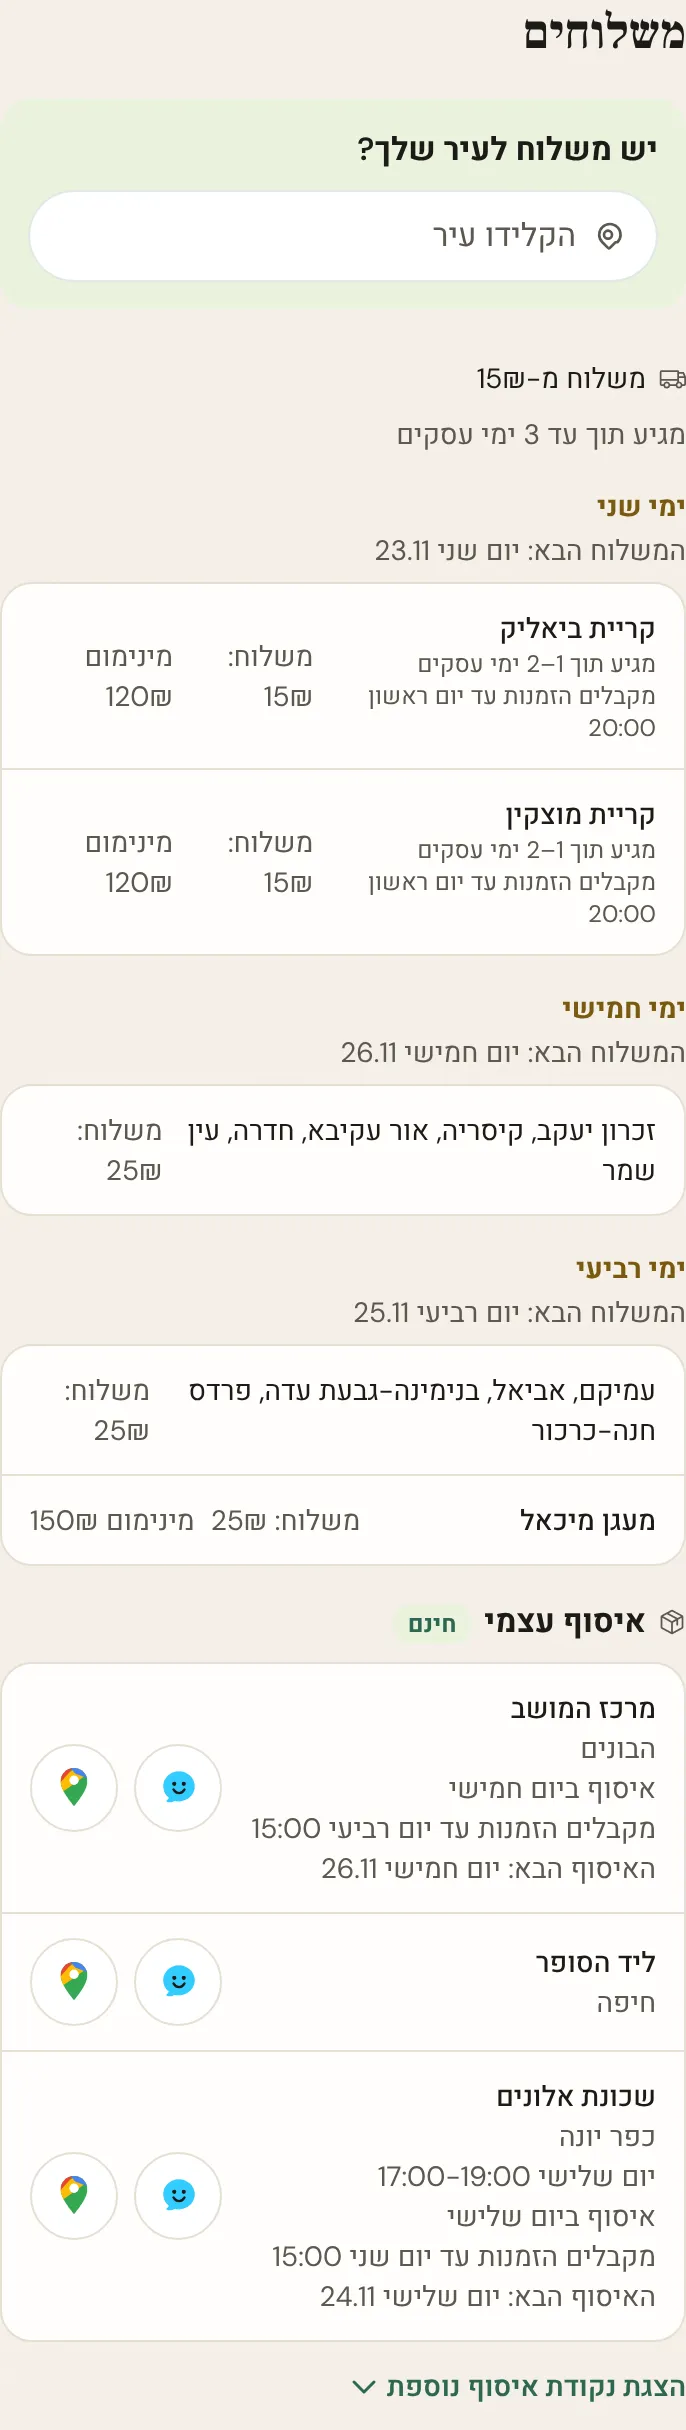
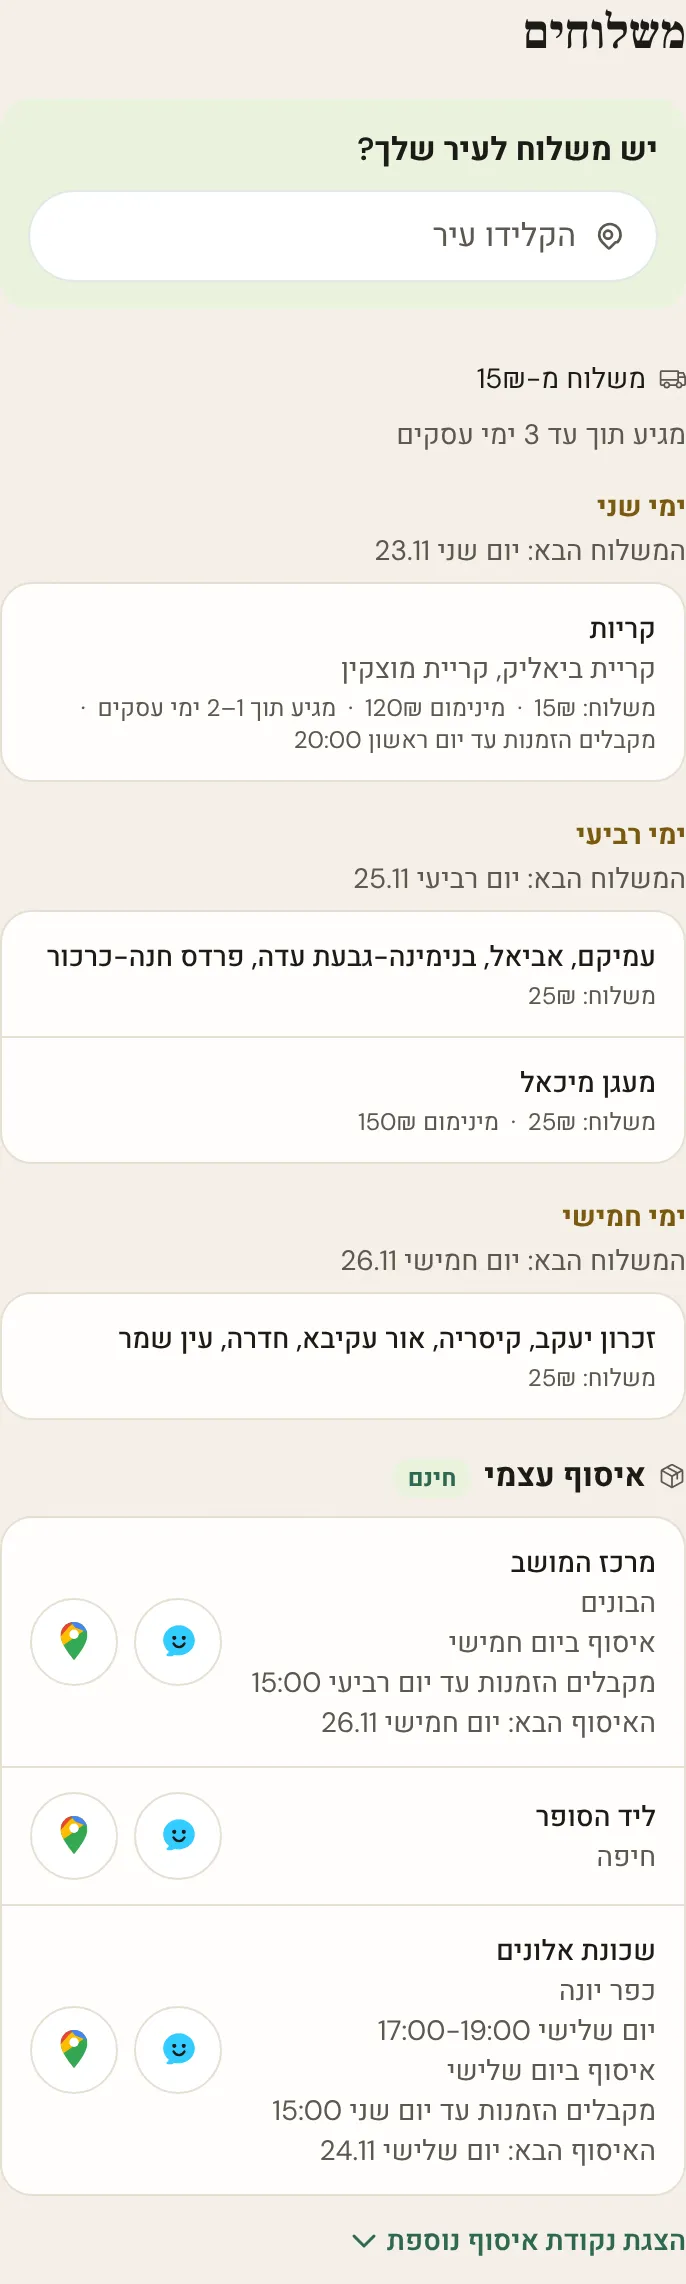
feat(delivery): day groups in week order; the «·» ends a wrapped line (MEH-3511)
Day groups read Sunday first instead of in the order the owner added them,
and a wrapped terms line ends with the dot instead of starting with it.

Builder-Model: claude-opus-5-5

Claude-Session: https://claude.ai/code/session_01X8DSqVbjSvx4HFCAyfuLpq

diff --git a/frontend/lib/deliveryGroups.js b/frontend/lib/deliveryGroups.js
@@ -26,7 +26,7 @@
  *
  * Row shape is preserved from the input
  * ({ id, city, min_order, delivery_day, delivery_fee }), original order kept;
- * day groups are ordered by first appearance.
+ * day groups are ordered by weekday (Sunday first; MEH-3511), ties by first appearance.
  *
  * ⚠ The map below is an EXPLICIT WHITELIST, not a spread — every field a row
  * needs downstream must be named here or it is silently dropped on the way to
@@ -73,14 +73,26 @@ export function groupDeliveryAreas(areas = []) {
     return { mode: "hoist", day: distinctDays[0], rows };
   }
 
-  const groups = distinctDays.map((day) => ({
-    day,
-    rows: rows.filter((r) => r.delivery_days.length && labelOf(r) === day),
-  }));
+  const groups = distinctDays
+    .map((day) => ({
+      day,
+      rows: rows.filter((r) => r.delivery_days.length && labelOf(r) === day),
+    }))
+    // MEH-3511 (Sapir 20/11): day groups read in week order, Sunday first;
+    // first appearance breaks a tie («שני» before «שני וחמישי»).
+    .sort((a, b) => firstWeekday(a.rows[0]) - firstWeekday(b.rows[0]));
   return { mode: "group", groups, arranged: missing };
 }
 
 const DAY_LIST = new Intl.ListFormat("he", { style: "long", type: "conjunction" });
+
+const WEEK = ["ראשון", "שני", "שלישי", "רביעי", "חמישי", "שישי", "שבת"];
+
+/** The earliest weekday of a row, Sunday = 0; an unknown day sorts last. @param {{delivery_days: string[]}} r */
+function firstWeekday(r) {
+  const idx = r.delivery_days.map((d) => WEEK.indexOf(d)).filter((i) => i >= 0);
+  return idx.length ? Math.min(...idx) : WEEK.length;
+}
 
 /** @param {string[]} days — one day reads as itself («שני»), two as «שני וחמישי». */
 function dayLabel(days) {

diff --git a/frontend/__tests__/deliveryGroups.test.js b/frontend/__tests__/deliveryGroups.test.js
@@ -101,16 +101,17 @@ describe("groupDeliveryAreas", () => {
     expect(res.rows.map((r) => r.delivery_fee)).toEqual([20, 0, null]);
   });
 
-  it("2+ distinct days → group, one group per day in first-appearance order", () => {
+  // MEH-3511 (Sapir 20/11): week order, not first appearance — «שלישי» first.
+  it("2+ distinct days → group, one group per day in week order", () => {
     const res = groupDeliveryAreas([
       { id: 1, city: "חיפה", min_order: 100, delivery_day: "שישי" },
       { id: 2, city: "עכו", min_order: 80, delivery_day: "שלישי" },
       { id: 3, city: "כרמיאל", min_order: 90, delivery_day: "שישי" },
     ]);
     expect(res.mode).toBe("group");
-    expect(res.groups.map((g) => g.day)).toEqual(["שישי", "שלישי"]);
-    expect(res.groups[0].rows.map((r) => r.city)).toEqual(["חיפה", "כרמיאל"]);
-    expect(res.groups[1].rows.map((r) => r.city)).toEqual(["עכו"]);
+    expect(res.groups.map((g) => g.day)).toEqual(["שלישי", "שישי"]);
+    expect(res.groups[0].rows.map((r) => r.city)).toEqual(["עכו"]);
+    expect(res.groups[1].rows.map((r) => r.city)).toEqual(["חיפה", "כרמיאל"]);
     expect(res.arranged).toEqual([]);
   });
 

diff --git a/frontend/components/AreaTermsRow.jsx b/frontend/components/AreaTermsRow.jsx
@@ -15,9 +15,10 @@ import { useTranslations } from "next-intl";
 import { formatPrice } from "@/lib/utils";
 import { deliveryTermTexts } from "@/components/DeliveryTerms";
 
-// «·» between terms, drawn by CSS so a missing term leaves no stray dot.
+// «·» after every term but the last, drawn by CSS so a missing term leaves no
+// stray dot, and a wrapped line ends with the dot instead of starting with it.
 const TERMS_LINE =
-  "mt-0.5 flex flex-wrap gap-x-1.5 text-xs text-fg-muted [&>*+*]:before:me-1.5 [&>*+*]:before:content-['·']";
+  "mt-0.5 flex flex-wrap gap-x-1.5 text-xs text-fg-muted [&>*:not(:last-child)]:after:ms-1.5 [&>*:not(:last-child)]:after:content-['·']";
 const SENTINEL = "\u0000";
 
 /** A message whose {amount} is the price, isolated for RTL (MEH-1168). @param {string} text @param {number} amount */
